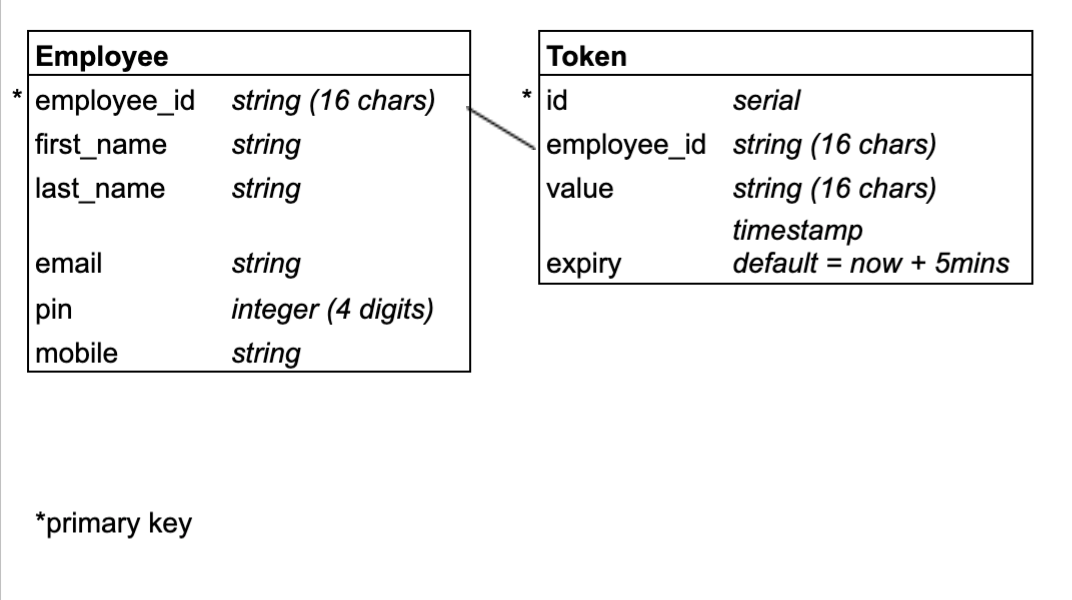
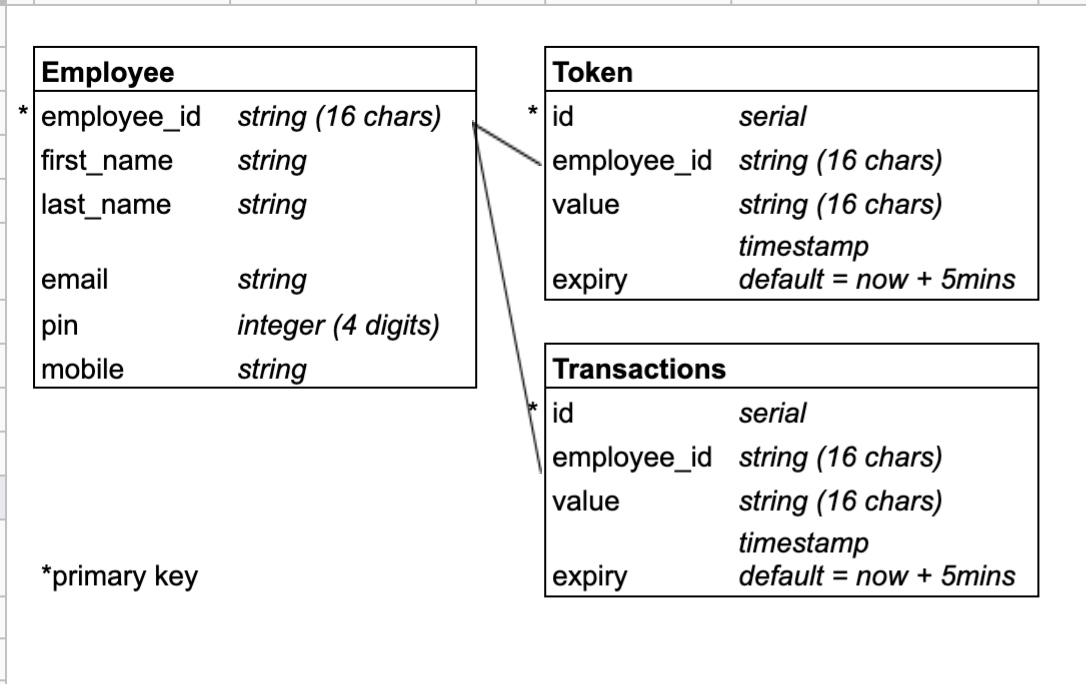
update docs to cover trnasaction storage

diff --git a/docs/output/index.html b/docs/output/index.html
@@ -283,7 +283,7 @@ pre code {
     "message": "Something&#39;s gone wrong - this may be a fault with the datastore or server. Please contact FirstTap support asap."
   }
 }
-</code></pre></div></div></div></div></div></div></div></div></div></div></div><div class="panel panel-default"><div class="panel-heading"><h3 id="balance" class="panel-title">/balance</h3></div><div class="panel-body"><div class="top-resource-description"><p>Top up or reduce a user&#39;s balance</p></div><div class="panel-group"><div class="panel panel-white resource-modal"><div class="panel-heading"><h4 class="panel-title"><a class="collapsed" data-toggle="collapse" href="#panel_balance__employeeid_"><span class="parent">/balance</span>/{employeeId}</a> <span class="methods"><a href="#balance__employeeid__get"><span class="badge badge_get">get</span></a> <a href="#balance__employeeid__put"><span class="badge badge_put">put</span></a></span></h4></div><div id="panel_balance__employeeid_" class="panel-collapse collapse"><div class="panel-body"><div class="list-group"><div onclick="window.location.href = '#balance__employeeid__get'" class="list-group-item"><span class="badge badge_get">get</span><div class="method_description"><p><strong>Retrieve employee&#39;s balance</strong></p><p>Given a valid employeeId and session token, retrieve the user&#39;s balance. Though there is protection on the /balance endpoint to prevent purchases being logged if there are insufficient funds, we have exposed the balance to a logged in user to minimise the risk of this mistake.</p></div><div class="clearfix"></div></div><div onclick="window.location.href = '#balance__employeeid__put'" class="list-group-item"><span class="badge badge_put">put</span><div class="method_description"><p><strong>Top up an employee&#39;s balance with path using transactionType: &#39;topup&#39;</strong></p><p><strong>Detract a purchase total from an employee&#39;s balance with path using transactionType: &#39;purchase&#39;</strong></p><p>Given a valid employeeId and session token, add or remove the given amount to the user&#39;s balance.</p><p><strong>Known limitations</strong></p><ul><li>This is not configured to use any specific currency</li><li>The datastore allows 2 decimal places and figures up to 8 digits (so max £999999.99).</li><li>The purchase history is not currently being stored, nor a record of balance updates.</li></ul><p>Should this prove insufficient, please contact us for an extension.</p></div><div class="clearfix"></div></div></div></div></div><div class="modal fade" tabindex="0" id="balance__employeeid__get"><div class="modal-dialog modal-lg"><div class="modal-content"><div class="modal-header"><button type="button" class="close" data-dismiss="modal" aria-hidden="true">&times;</button><h4 class="modal-title" id="myModalLabel"><span class="badge badge_get">get</span> <span class="parent">/balance</span>/{employeeId}</h4></div><div class="modal-body"><div class="alert alert-info"><p><strong>Retrieve employee&#39;s balance</strong></p><p>Given a valid employeeId and session token, retrieve the user&#39;s balance. Though there is protection on the /balance endpoint to prevent purchases being logged if there are insufficient funds, we have exposed the balance to a logged in user to minimise the risk of this mistake.</p></div><ul class="nav nav-tabs"><li class="active"><a href="#balance__employeeid__get_request" data-toggle="tab">Request</a></li><li><a href="#balance__employeeid__get_response" data-toggle="tab">Response</a></li></ul><div class="tab-content"><div class="tab-pane active" id="balance__employeeid__get_request"><h3>URI Parameters</h3><ul><li><strong>employeeId</strong>: <em><span class="required">required</span>(string)</em></li></ul><h3>Headers</h3><ul><li><strong>Authorization</strong>: <em><span class="required">required</span>(string)</em><p>Basic authentication header using base64 encoded username and password credentials</p><p><strong>Example</strong>:</p><div class="examples"><pre><code>{"Authorization": "Basic QWxhZGRpbjpvcGVuIHNlc2FtZQ=="}
+</code></pre></div></div></div></div></div></div></div></div></div></div></div><div class="panel panel-default"><div class="panel-heading"><h3 id="balance" class="panel-title">/balance</h3></div><div class="panel-body"><div class="top-resource-description"><p>Top up or reduce a user&#39;s balance</p></div><div class="panel-group"><div class="panel panel-white resource-modal"><div class="panel-heading"><h4 class="panel-title"><a class="collapsed" data-toggle="collapse" href="#panel_balance__employeeid_"><span class="parent">/balance</span>/{employeeId}</a> <span class="methods"><a href="#balance__employeeid__get"><span class="badge badge_get">get</span></a> <a href="#balance__employeeid__put"><span class="badge badge_put">put</span></a></span></h4></div><div id="panel_balance__employeeid_" class="panel-collapse collapse"><div class="panel-body"><div class="list-group"><div onclick="window.location.href = '#balance__employeeid__get'" class="list-group-item"><span class="badge badge_get">get</span><div class="method_description"><p><strong>Retrieve employee&#39;s balance</strong></p><p>Given a valid employeeId and session token, retrieve the user&#39;s balance. Though there is protection on the /balance endpoint to prevent purchases being logged if there are insufficient funds, we have exposed the balance to a logged in user to minimise the risk of this mistake.</p></div><div class="clearfix"></div></div><div onclick="window.location.href = '#balance__employeeid__put'" class="list-group-item"><span class="badge badge_put">put</span><div class="method_description"><p><strong>Top up an employee&#39;s balance with path using transactionType: &#39;topup&#39;</strong></p><p><strong>Detract a purchase total from an employee&#39;s balance with path using transactionType: &#39;purchase&#39;</strong></p><p>Given a valid employeeId and session token, add or remove the given amount to the user&#39;s balance.</p><p>On purchase, transaction details can also be stored for later analysis. Category, itemRef and kioskRef are currently required fields if this option is chosen. These will be stored along with the employeeId, amount and timestamp.</p><p><strong>Known limitations</strong></p><ul><li>This is not configured to use any specific currency</li><li>The datastore allows 2 decimal places and figures up to 8 digits (so max £999999.99).</li><li>Currently all fields in transaction data are required. This is a v1 of this feature and open to review and improvement.</li></ul><p>Should this prove insufficient, please contact us for an extension.</p></div><div class="clearfix"></div></div></div></div></div><div class="modal fade" tabindex="0" id="balance__employeeid__get"><div class="modal-dialog modal-lg"><div class="modal-content"><div class="modal-header"><button type="button" class="close" data-dismiss="modal" aria-hidden="true">&times;</button><h4 class="modal-title" id="myModalLabel"><span class="badge badge_get">get</span> <span class="parent">/balance</span>/{employeeId}</h4></div><div class="modal-body"><div class="alert alert-info"><p><strong>Retrieve employee&#39;s balance</strong></p><p>Given a valid employeeId and session token, retrieve the user&#39;s balance. Though there is protection on the /balance endpoint to prevent purchases being logged if there are insufficient funds, we have exposed the balance to a logged in user to minimise the risk of this mistake.</p></div><ul class="nav nav-tabs"><li class="active"><a href="#balance__employeeid__get_request" data-toggle="tab">Request</a></li><li><a href="#balance__employeeid__get_response" data-toggle="tab">Response</a></li></ul><div class="tab-content"><div class="tab-pane active" id="balance__employeeid__get_request"><h3>URI Parameters</h3><ul><li><strong>employeeId</strong>: <em><span class="required">required</span>(string)</em></li></ul><h3>Headers</h3><ul><li><strong>Authorization</strong>: <em><span class="required">required</span>(string)</em><p>Basic authentication header using base64 encoded username and password credentials</p><p><strong>Example</strong>:</p><div class="examples"><pre><code>{"Authorization": "Basic QWxhZGRpbjpvcGVuIHNlc2FtZQ=="}
 </code></pre></div></li><li><strong>Token</strong>: <em><span class="required">required</span>(string)</em><p>Valid session token for employee (provided when a user signs up/logs in). We recommend storing this in a cookie with an expiry of 5 mins as it is needed for all api calls related to the user. The same token is refreshed by 5 mins on each api call so remains valid.</p><p><strong>Example</strong>:</p><div class="examples"><pre><code>{"token": "c564e37b-4227-4b1a-b63d-d8839c30da1c"}
 </code></pre></div></li></ul></div><div class="tab-pane" id="balance__employeeid__get_response"><h2>HTTP status code <a href="http://httpstatus.es/200" target="_blank">200</a></h2><h3>Body</h3><p><strong>Media type</strong>: application/json</p><p><strong>Type</strong>: any</p><p><strong>Example</strong>:</p><div class="examples"><pre><code>{
   "status": "ok",
@@ -309,7 +309,7 @@ pre code {
     "message": "Something&#39;s gone wrong - this may be a fault with the datastore or server. Please contact FirstTap support asap."
   }
 }
-</code></pre></div></div></div></div></div></div></div><div class="modal fade" tabindex="0" id="balance__employeeid__put"><div class="modal-dialog modal-lg"><div class="modal-content"><div class="modal-header"><button type="button" class="close" data-dismiss="modal" aria-hidden="true">&times;</button><h4 class="modal-title" id="myModalLabel"><span class="badge badge_put">put</span> <span class="parent">/balance</span>/{employeeId}</h4></div><div class="modal-body"><div class="alert alert-info"><p><strong>Top up an employee&#39;s balance with path using transactionType: &#39;topup&#39;</strong></p><p><strong>Detract a purchase total from an employee&#39;s balance with path using transactionType: &#39;purchase&#39;</strong></p><p>Given a valid employeeId and session token, add or remove the given amount to the user&#39;s balance.</p><p><strong>Known limitations</strong></p><ul><li>This is not configured to use any specific currency</li><li>The datastore allows 2 decimal places and figures up to 8 digits (so max £999999.99).</li><li>The purchase history is not currently being stored, nor a record of balance updates.</li></ul><p>Should this prove insufficient, please contact us for an extension.</p></div><ul class="nav nav-tabs"><li class="active"><a href="#balance__employeeid__put_request" data-toggle="tab">Request</a></li><li><a href="#balance__employeeid__put_response" data-toggle="tab">Response</a></li></ul><div class="tab-content"><div class="tab-pane active" id="balance__employeeid__put_request"><h3>URI Parameters</h3><ul><li><strong>employeeId</strong>: <em><span class="required">required</span>(string)</em></li></ul><h3>Headers</h3><ul><li><strong>Authorization</strong>: <em><span class="required">required</span>(string)</em><p>Basic authentication header using base64 encoded username and password credentials</p><p><strong>Example</strong>:</p><div class="examples"><pre><code>{"Authorization": "Basic QWxhZGRpbjpvcGVuIHNlc2FtZQ=="}
+</code></pre></div></div></div></div></div></div></div><div class="modal fade" tabindex="0" id="balance__employeeid__put"><div class="modal-dialog modal-lg"><div class="modal-content"><div class="modal-header"><button type="button" class="close" data-dismiss="modal" aria-hidden="true">&times;</button><h4 class="modal-title" id="myModalLabel"><span class="badge badge_put">put</span> <span class="parent">/balance</span>/{employeeId}</h4></div><div class="modal-body"><div class="alert alert-info"><p><strong>Top up an employee&#39;s balance with path using transactionType: &#39;topup&#39;</strong></p><p><strong>Detract a purchase total from an employee&#39;s balance with path using transactionType: &#39;purchase&#39;</strong></p><p>Given a valid employeeId and session token, add or remove the given amount to the user&#39;s balance.</p><p>On purchase, transaction details can also be stored for later analysis. Category, itemRef and kioskRef are currently required fields if this option is chosen. These will be stored along with the employeeId, amount and timestamp.</p><p><strong>Known limitations</strong></p><ul><li>This is not configured to use any specific currency</li><li>The datastore allows 2 decimal places and figures up to 8 digits (so max £999999.99).</li><li>Currently all fields in transaction data are required. This is a v1 of this feature and open to review and improvement.</li></ul><p>Should this prove insufficient, please contact us for an extension.</p></div><ul class="nav nav-tabs"><li class="active"><a href="#balance__employeeid__put_request" data-toggle="tab">Request</a></li><li><a href="#balance__employeeid__put_response" data-toggle="tab">Response</a></li></ul><div class="tab-content"><div class="tab-pane active" id="balance__employeeid__put_request"><h3>URI Parameters</h3><ul><li><strong>employeeId</strong>: <em><span class="required">required</span>(string)</em></li></ul><h3>Headers</h3><ul><li><strong>Authorization</strong>: <em><span class="required">required</span>(string)</em><p>Basic authentication header using base64 encoded username and password credentials</p><p><strong>Example</strong>:</p><div class="examples"><pre><code>{"Authorization": "Basic QWxhZGRpbjpvcGVuIHNlc2FtZQ=="}
 </code></pre></div></li><li><strong>Token</strong>: <em><span class="required">required</span>(string)</em><p>Valid session token for employee (provided when a user signs up/logs in. We recommend storing this in a cookie with an expiry of 5 mins as it is needed for all api calls related to the user. The same token is refreshed by 5 mins on each api call so remains valid.</p><p><strong>Example</strong>:</p><div class="examples"><pre><code>{"token": "c564e37b-4227-4b1a-b63d-d8839c30da1c"}
 </code></pre></div></li></ul><h3>Body</h3><p><strong>Media type</strong>: application/json</p><p><strong>Type</strong>:</p><pre><code>{
   "name": "Balance",
@@ -323,6 +323,22 @@ pre code {
       "type": "number",
       "format": "max 8 digits incl 2 decimal places",
       "required": true
+    },
+    "transactionDetails": {
+      "category": {
+        "type": "string",
+        "format": "currently unrestricted but we advise creating grouped tags",
+        "required": true
+      },
+      "itemRef": {
+        "type": "string",
+        "required": true
+      } ,
+      "kioskRef": {
+        "type": "string",
+        "required": true
+      },
+      "required": false
     }
   }
 }
@@ -333,6 +349,15 @@ pre code {
 </code></pre><p><strong>Purchase</strong>:<br></p><pre><code>{
   "amount": 15.20,
   "transactionType": "purchase"
+}
+</code></pre><p><strong>Purchase with Transaction details</strong>:<br></p><pre><code>{
+  "amount": 15.20,
+  "transactionType": "purchase",
+  "transactionDetails": {
+    "category": "food" ,
+    "itemRef": "16qb9as889" ,
+    "kioskRef": "001b"
+  }
 }
 </code></pre></div></div><div class="tab-pane" id="balance__employeeid__put_response"><h2>HTTP status code <a href="http://httpstatus.es/200" target="_blank">200</a></h2><h3>Body</h3><p><strong>Media type</strong>: application/json</p><p><strong>Type</strong>: any</p><p><strong>Example</strong>:</p><div class="examples"><pre><code>{
   "status": "ok",
